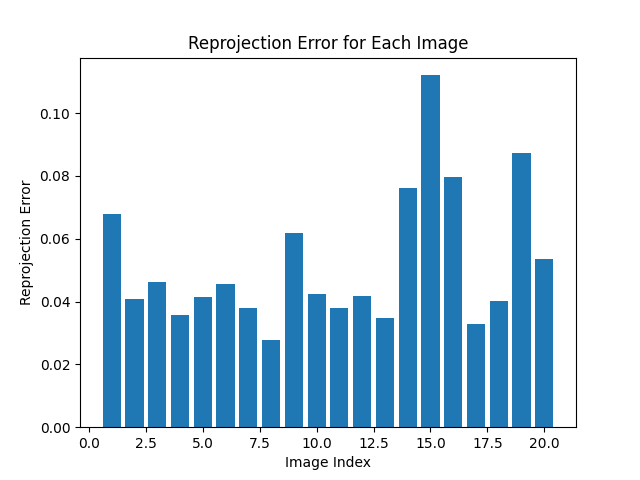
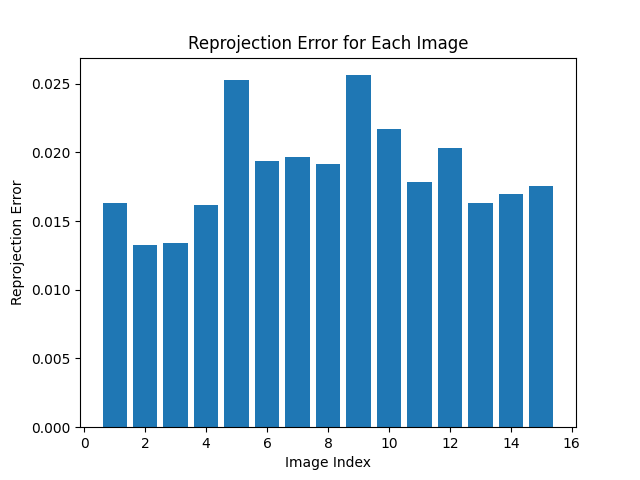
- add tijie test data

diff --git a/HandEyeCalibration_class.py b/HandEyeCalibration_class.py
@@ -116,10 +116,10 @@ class CameraCalibration:
             print("R_cam2gripper:", self.R_cam2gripper)
             print("t_cam2gripper:", self.t_cam2gripper)
             
-            eef2cam_matrix = np.eye(4)
-            eef2cam_matrix[:3, :3] = self.R_cam2gripper
-            eef2cam_matrix[:3, 3] = self.t_cam2gripper.reshape(3)
-            cam2ee_matrix = np.linalg.inv(eef2cam_matrix)
+            # eef2cam_matrix = np.eye(4)
+            # eef2cam_matrix[:3, :3] = self.R_cam2gripper
+            # eef2cam_matrix[:3, 3] = self.t_cam2gripper.reshape(3)
+            # cam2ee_matrix = np.linalg.inv(eef2cam_matrix)
             # 2 means transform to, i.e. the 1st frame is the base frame
             # print("eef2cam_matrix:\n", eef2cam_matrix)
             # print("cam2ee_matrix:\n", cam2ee_matrix)
@@ -313,5 +313,8 @@ class CameraCalibration:
 
 if __name__== "__main__":
     # Create an instance of the class
-    image_folder = "2024-06-06/"
-    calib = CameraCalibration(image_folder, pattern_size=(8, 9), square_size=0.02, ShowProjectError=False, ShowCorners=False)
+    # image_folder = "2024-06-06/"
+    # calib = CameraCalibration(image_folder, pattern_size=(8, 9), square_size=0.02, ShowProjectError=False, ShowCorners=False)
+
+    image_folder = "2024-06-17/"
+    calib = CameraCalibration(image_folder, pattern_size=(8, 11), square_size=0.015, ShowProjectError=False, ShowCorners=False)
